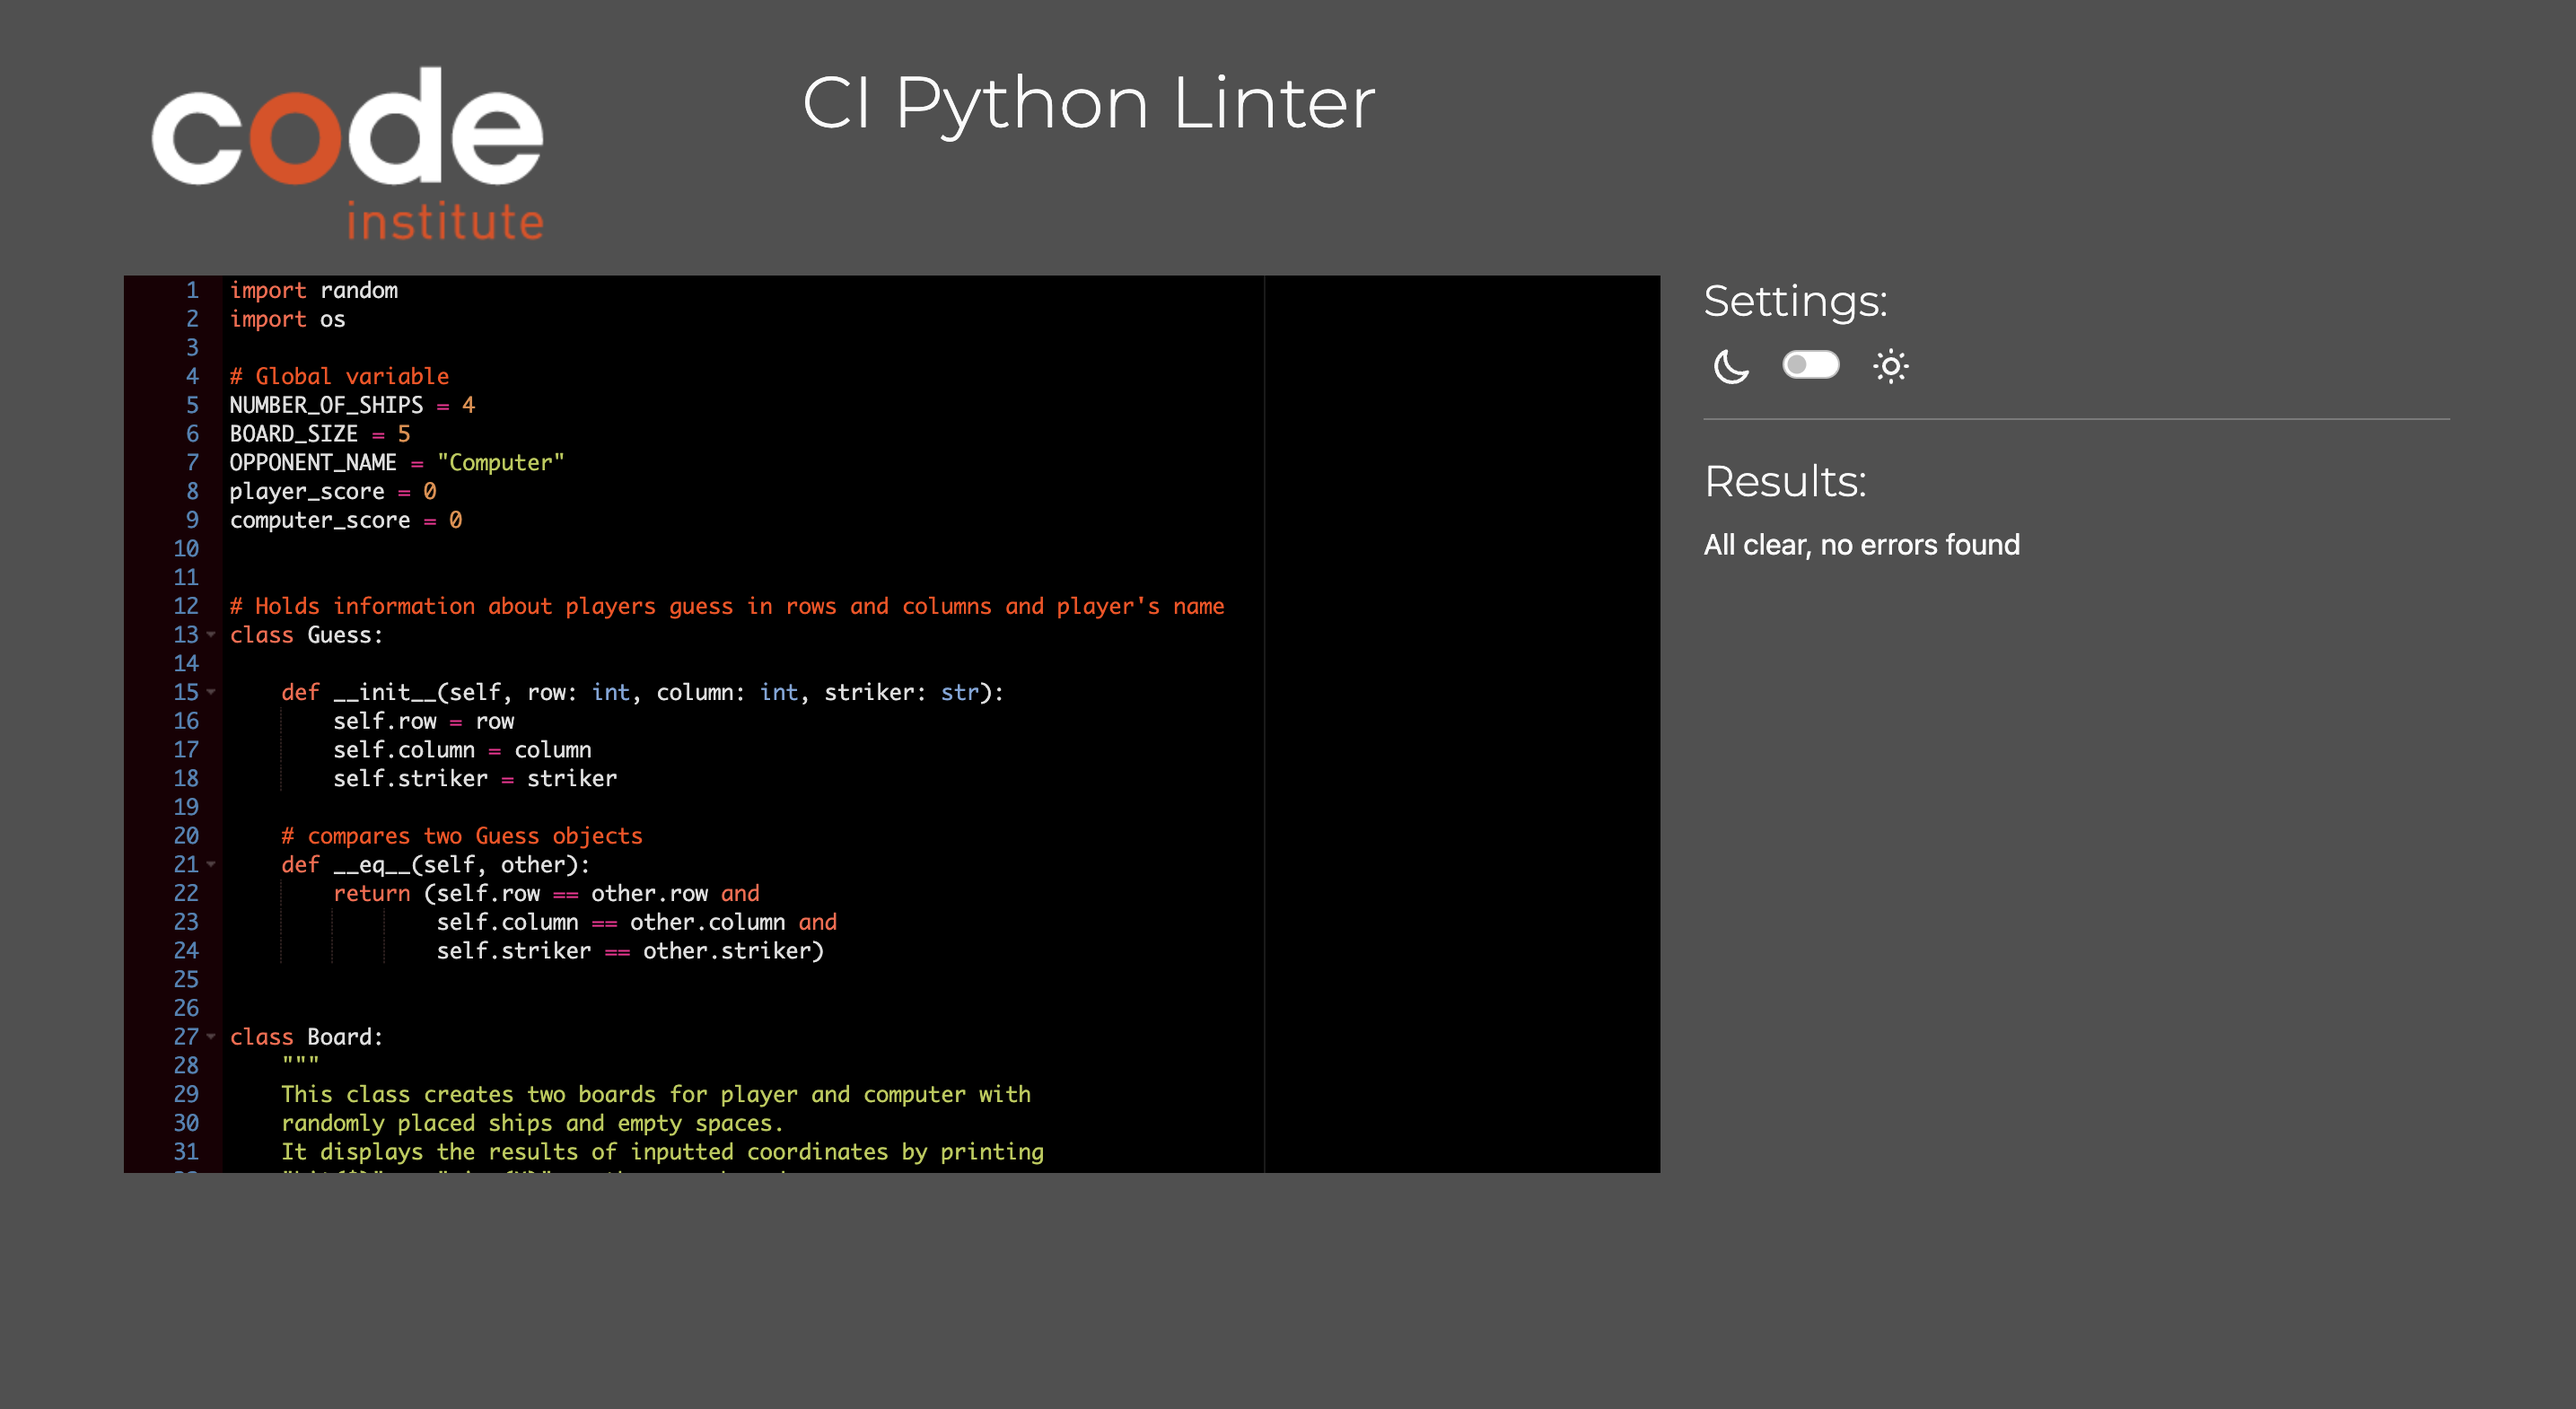
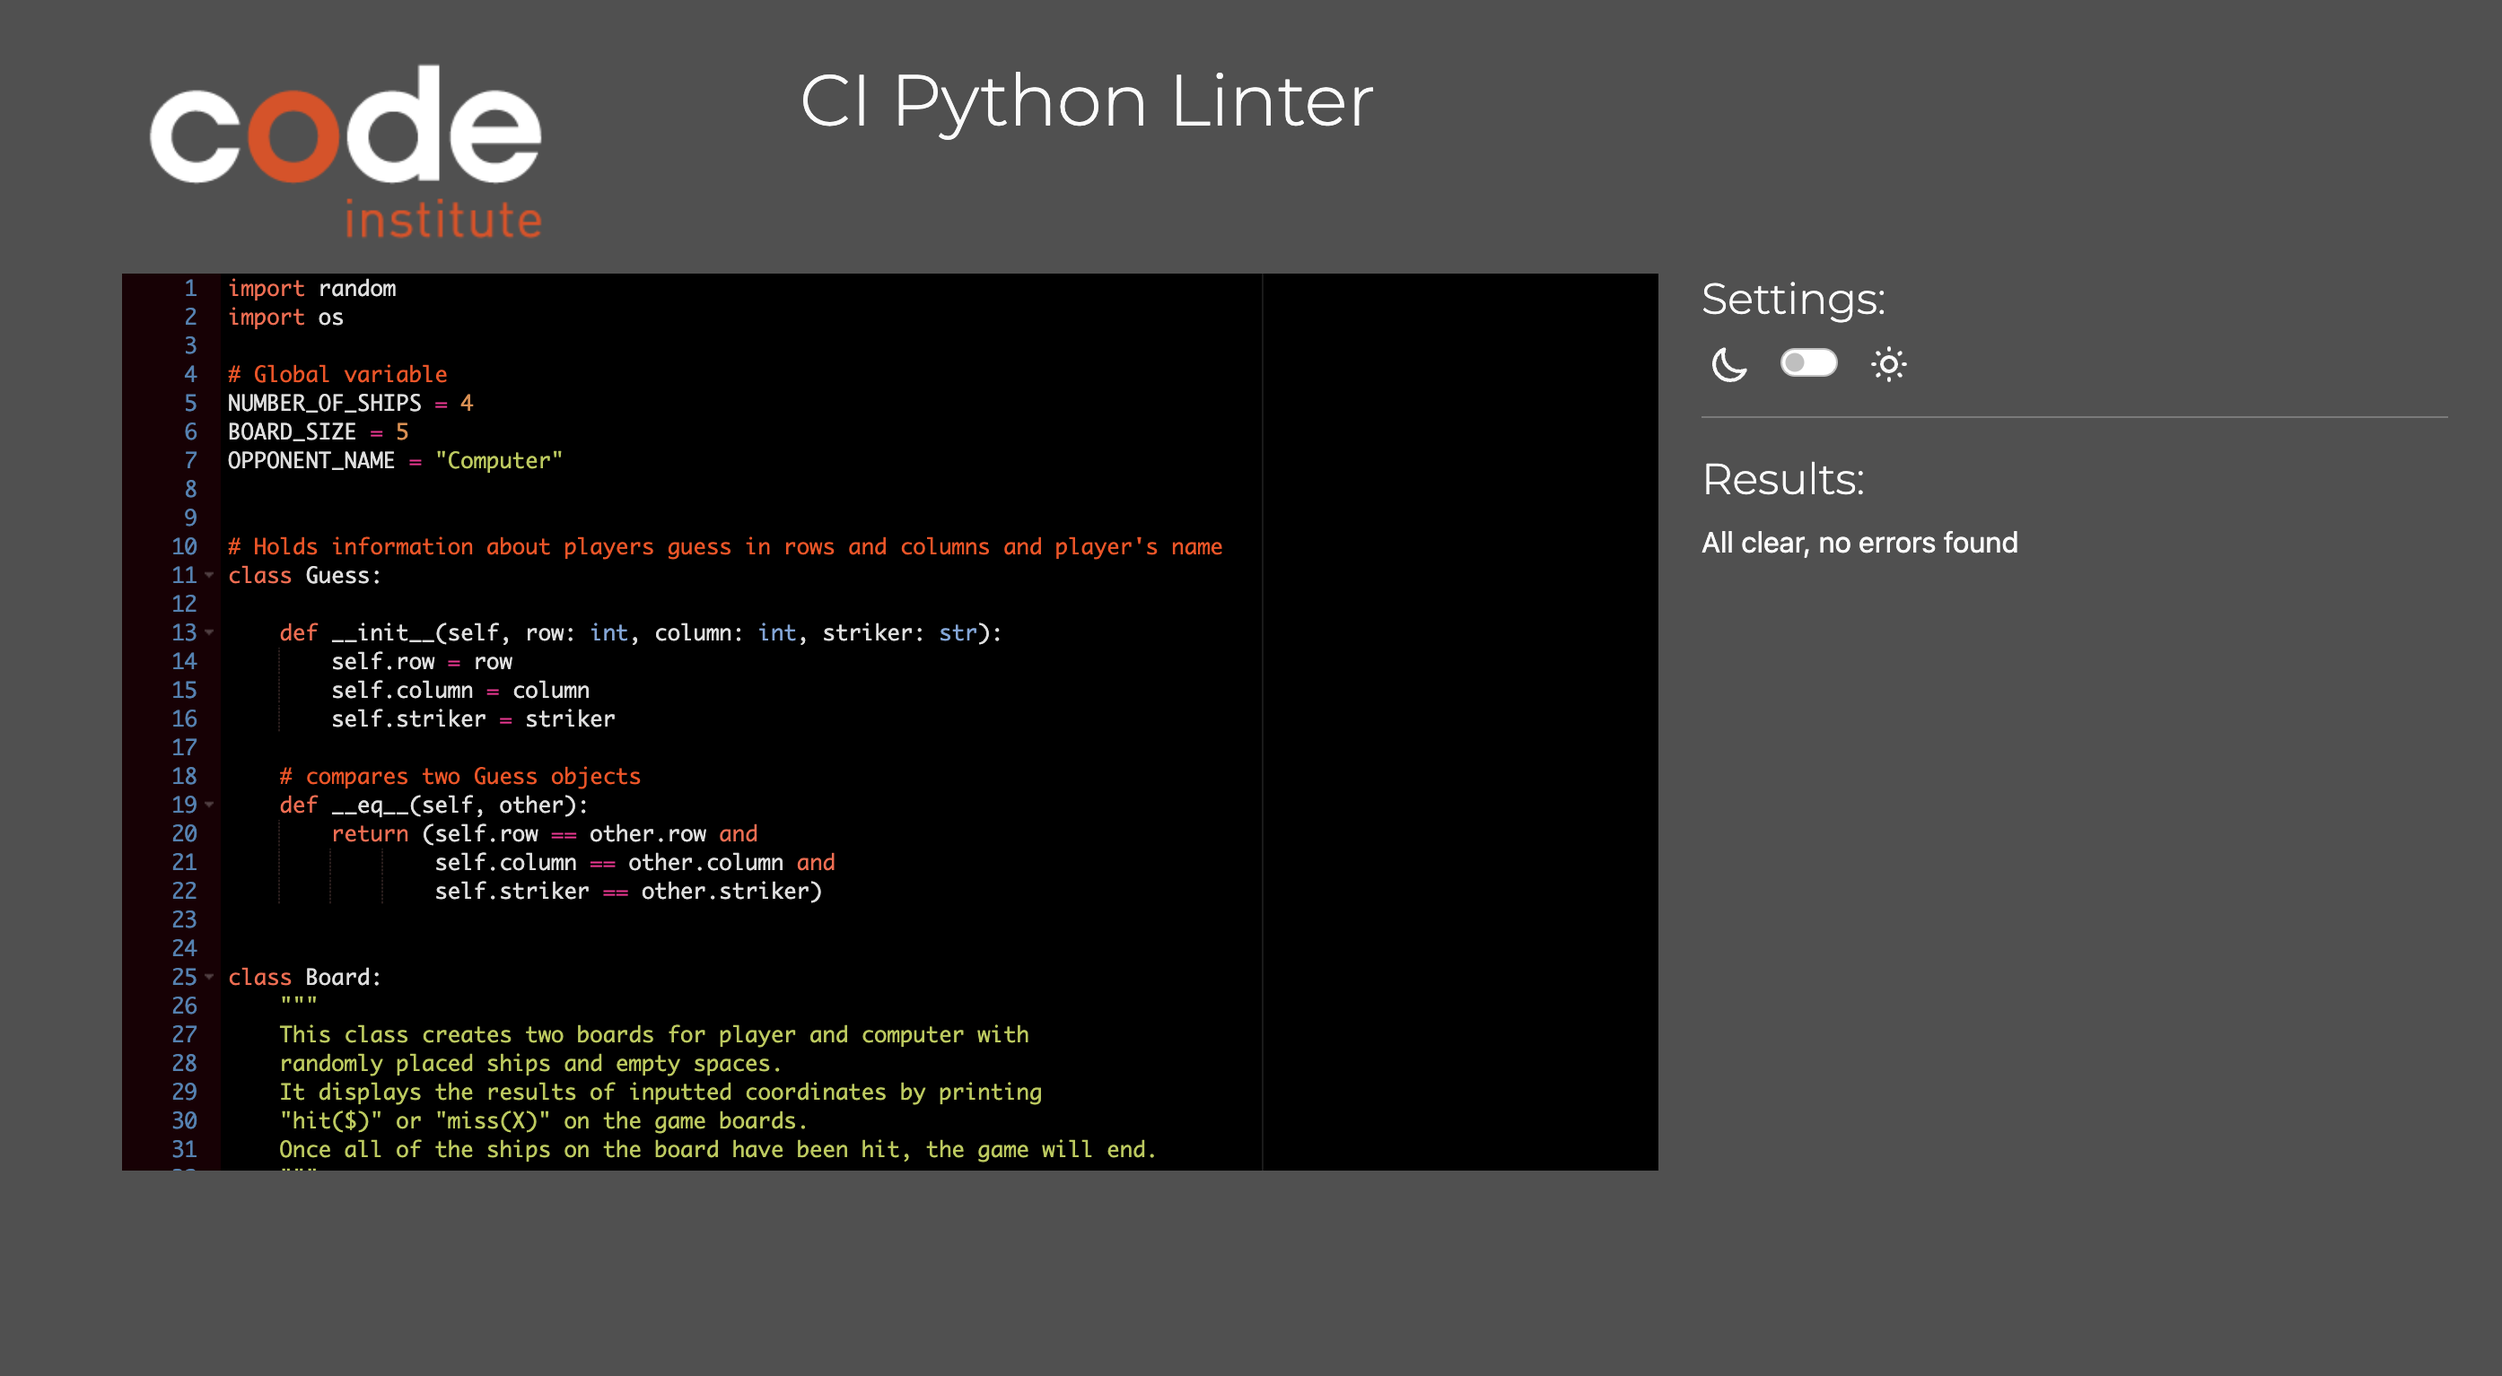
Add Test validator and manually to the README file

Changed region(s): [[0.0312, 0.0306, 0.8113, 0.8579], [0.3121, 0.0306, 0.5617, 0.0919]]

diff --git a/run.py b/run.py
@@ -5,8 +5,6 @@ import os
 NUMBER_OF_SHIPS = 4
 BOARD_SIZE = 5
 OPPONENT_NAME = "Computer"
-player_score = 0
-computer_score = 0
 
 
 # Holds information about players guess in rows and columns and player's name
@@ -60,10 +58,10 @@ class Board:
     # Randomly creating coordinates for ships
     def init_board(self):
         while self.ship_counter < NUMBER_OF_SHIPS:
-            x = random.randint(0, BOARD_SIZE-1)
-            y = random.randint(0, BOARD_SIZE-1)
-            if self.grid[x][y] != '@':
-                self.grid[x][y] = '@'
+            x_index = random.randint(0, BOARD_SIZE-1)
+            y_index = random.randint(0, BOARD_SIZE-1)
+            if self.grid[x_index][y_index] != '@':
+                self.grid[x_index][y_index] = '@'
                 self.ship_counter += 1
 
     # Takes input and checks if it hits a ship, updates the grid,
@@ -148,7 +146,7 @@ class Game:
                                         guess=player_guess)
 
                         if has_player_won:
-                            print(f"\n\nGame over!")
+                            print("\n\nGame over!")
                             print(f"{self.player_name} is the winner!")
                             self.__show_score(first=player, second=computer)
                             return self.__show_game_exit_menu()
@@ -158,10 +156,10 @@ class Game:
                         print("Guess already taken, please guess again!")
                         continue
 
-            '''
+            """
             Computer generates random coordinates for its guesses
             by calling random.randint() method twice.
-            '''
+            """
             while True:
                 row_input = random.randint(0, BOARD_SIZE - 1)
                 column_input = random.randint(0, BOARD_SIZE - 1)
@@ -178,8 +176,8 @@ class Game:
                                         guess=computer_guess)
 
                     if has_computer_won:
-                        print(f"\n\nGAME OVER!")
-                        print(f"{self.OPPONENT_NAME} is the winner!")
+                        print("\n\nGAME OVER!")
+                        print(f"{OPPONENT_NAME} is the winner!")
                         self.__show_score(first=player, second=computer)
                         return self.__show_game_exit_menu()
                     break

diff --git a/README.md b/README.md
@@ -23,6 +23,7 @@ ___
     * [Description](#description)
 - [Testing](#testing)
     * [Validator Testing](#validator-testing)
+    * [Manual Testing](#manual-testing)
 - [Deployment](#deployment)
 - [Technologies](#technologies) 
 - [Bugs](#bugs)
@@ -119,10 +120,27 @@ The code consists of three main classes: Guess, Board, and Game:
 
 # Testing
   ## Validator Testing
-  I have manually testing the project by dooing the following:
-
+[PEP8CI](https://pep8ci.herokuapp.com/) has been used to automatically check and ensure that Python code adheres to the recommended style guidelines.
 
   ![Validator](./assets/images/Screenshot-validator.png)
+
+  ## Manual Tasting
+
+| Test Case | Input | Expected result | Outcome |
+|-----------|-------|-----------------|---------|
+|Please enter your username:|"Player1"|Valid input|Pass|
+|Please enter your username:|"777"|Valid input|Pass|
+|Please enter your username:|" ", empty|User input can not be empty!<br>Please enter your username:|Pass|
+|Guess a row:<br> Guess a column:|"0", "1", "2", "3", "4"|Valid input|Pass|
+|Guess a row:<br> Guess a column:|"5", "9"|Please enter a number between 0 and 4!|Pass|
+|Guess a row:<br> Guess a column:|" ", empty|Please enter a number between 0 and 4!|Pass|
+|Guess a row:<br> Guess a column:|"word","A", "w"|Please enter a number between 0 and 4!|Pass|
+|Do you want to play again?|"yes", "y"|Valid input,|Pass|
+|Do you want to play again?|"no", "n"|Valid input|Pass|
+|Do you want to play again?|" ", empty|Invalid input. Please enter (yes/y or no/n)|Pass|
+|Do you want to play again?|"0", "1", "22", "50"|Invalid input. Please enter (yes/y or no/n)|Pass|
+|Do you want to play again?|"word","A", "w"|Invalid input. Please enter (yes/y or no/n)|Pass|
+|Do you want to play again?|"@", "/", "*"|Invalid input. Please enter (yes/y or no/n)|Pass|
 
 # Deployment
 The site has been deployed on Heroku by following these steps:
@@ -155,8 +173,8 @@ The site has been deployed on Heroku by following these steps:
   - Heroku
 
 # Bugs
-### - Problem:
- Some of the computer's guesses were not displayed on the board after the selection of coordinates section.
+### Problem:
+Some of the computer's guesses were not displayed on the board after the selection of coordinates section.
 
 ### Solution:
 I fixed it by one line code:
